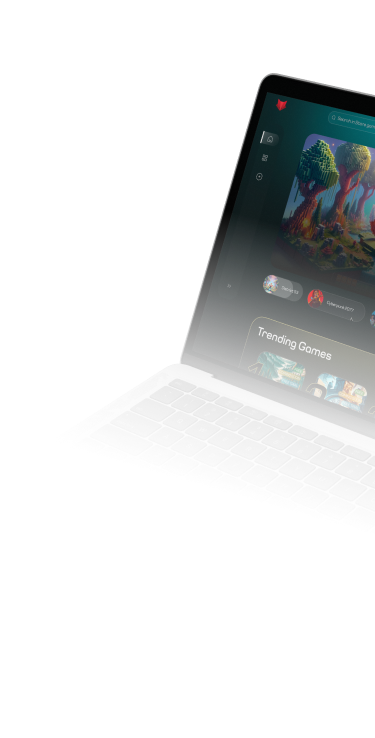
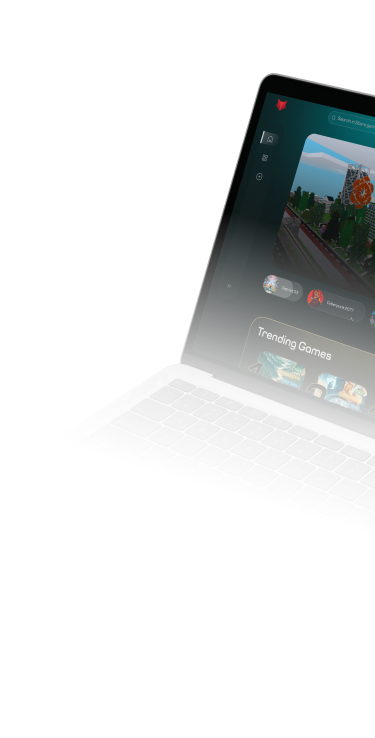
fix: replaced the images

Changed region(s): [[0.7333, 0.1558, 1.0, 0.374]]

diff --git a/src/view/Install.js b/src/view/Install.js
@@ -30,7 +30,7 @@ const InstallSection = () => {
             <div className="launch-container" id="how-to-install">
                 <div className="row">
                     <div className="col-lg-6 col-md-6 col-sm-12">
-                        <img src={launcherImg} width={'100%'} alt="launcher" style={{borderRadius:'16px'}}/>
+                        <img src={launcherImg} width={'100%'} alt="launcher" style={{borderRadius:'16px', opacity:0.6}}/>
                     </div>
                     <div className="col-lg-6 col-md-6 col-sm-12 p-30 d-flex flex-column justify-content-around" style={{gap:"30px"}}>
                         <div style={{lineHeight:'35px'}}>
